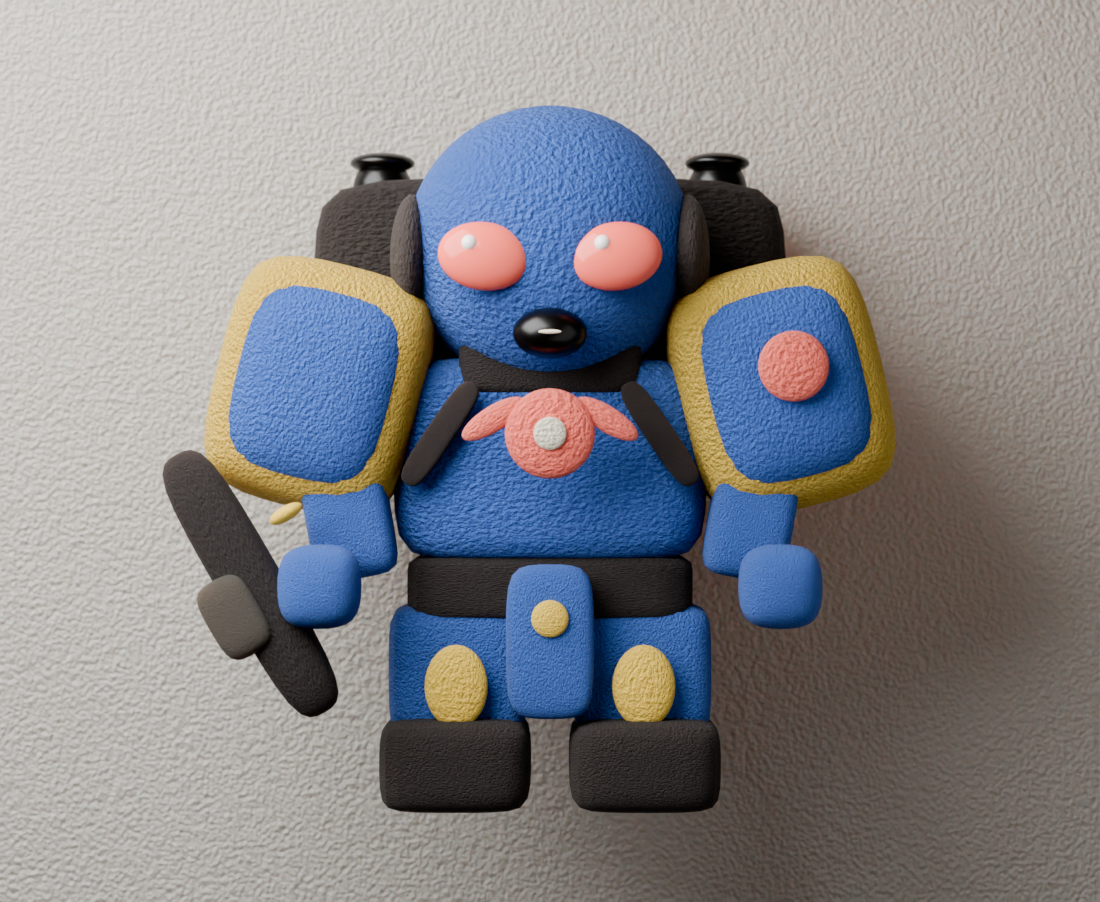
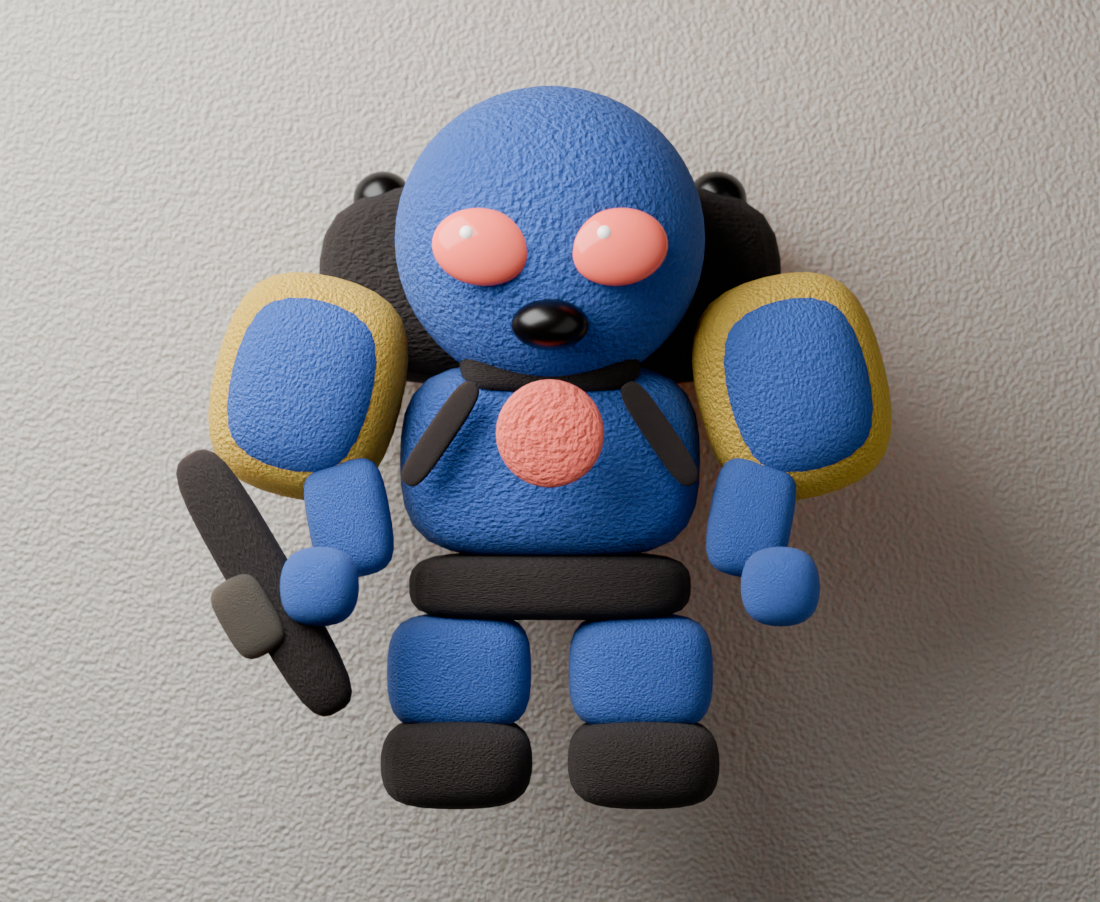
펠트 마린 간소화: 부속 열둘을 걷고 비례로 채웠다 (유호 08-26 「주렁주렁하다 · 더 귀엽게」)
■ 무엇을 뺐나 — 판정 축은 「같은 말을 두 번 하는가」였다
 · 코랄 원판이 어깨와 가슴 둘 → 가슴 하나로(정면 컷의 중심은 가슴이다)
 · 금이 어깨·무릎·태세트·총 네 자리 → 어깨 테 하나로. 금이 여러 자리에 흩어지면
   그것은 «강조»가 아니라 «무늬»가 된다.
 · 가슴 문장의 흰 심(단추로 읽힘)·좌우 날개(콧수염으로 읽힘) → 원판 하나
 · 헬멧 옆판 → 정면에서 또 «귀»가 됐다. 각보다 «귀 아님»이 중요하다.
 · 배기구 끝 링 · 주둥이 그릴 땀 · 총의 금띠와 실땀 → 이 크기에서는 «점»으로만 보인다.
 · 허리 앞 장식판(태세트) → 금점을 걷고 나니 다리 사이의 파란 판이 «세 번째 다리»가 됐다.
   원작의 특징이어도 실루엣을 해치면 버린다.

■ 뺀 자리는 비례가 채운다
 장식이 줄면 실루엣이 전부가 되므로 간소화와 비례 손질은 한 벌로 간다.
 머리 0.452→0.492 · 갑옷 판 크리스 전반 하향(각을 죽인다) · 다리는 짧고 통통하게 ·
 부츠는 키우고 · 어깨는 바깥으로(머리를 키우니 어깨판이 «귀마개»처럼 붙었다) ·
 배기구는 가방 위로 살짝만 내민다(얼굴 옆 높은 자리의 수직물은 다시 귀가 된다).

■ 편집 사고 하나 — 기록으로 남긴다
 긴 주석을 앵커로 블록을 지우다 슬라이스가 뒤집혀 가방·태세트 블록이 통째로 복제됐고,
 렌더에 유령 부품이 남았다(무릎·어깨마크가 지웠는데도 나왔다). 커밋본에서 되살린 뒤
 줄 번호 기반으로 다시 했다. 34판·총 블록이 함께 지워진 것도 같은 원인이었다.

Session-Id: local_1fb103b8-5249-4cb2-94c5-dc81b005b123

diff --git a/tools/마린굽기.py b/tools/마린굽기.py
@@ -153,12 +153,12 @@ def _시안(bpy, math, random, g):
     #     한 칸을 옮기면 이웃 칸의 수도 여기서 같이 보인다 — 그게 «안 깨지는» 유일한 자리다.
     #   각 칸 = (중심z, 반높, ±x, 반폭, y, 깊이반). 화면 세로 3.176 · 캐릭터 0.00~2.28.
     골격 = {
-        '부츠': (0.145, 0.150, 0.308, 0.246, -0.07, 0.292),
-        '다리': (0.440, 0.220, 0.302, 0.228,  0.01, 0.205),   # 부츠와 0.05 겹침
+        '부츠': (0.140, 0.152, 0.306, 0.262, -0.07, 0.300),
+        '다리': (0.430, 0.195, 0.300, 0.242,  0.01, 0.215),   # 부츠와 0.05 겹침
         '허리': (0.710, 0.110, 0.000, 0.470,  0.12, 0.315),   # 다리와 0.06 겹침
         '흉갑': (1.130, 0.345, 0.000, 0.520,  0.12, 0.350),   # 허리와 0.03 겹침 · 위끝 1.475
-        '어깨': (1.372, 0.406, 0.752, 0.338, -0.02, 0.344),   # 금테 — 위끝 1.778 · 아래끝 0.966
-        '어깨속': (1.372, 0.360, 0.752, 0.297, -0.075, 0.334), # 갑옷판 — 테보다 작고 «앞»에 얹힌다
+        '어깨': (1.372, 0.406, 0.796, 0.338, -0.02, 0.344),   # 금테 — 위끝 1.778 · 아래끝 0.966
+        '어깨속': (1.372, 0.360, 0.796, 0.297, -0.075, 0.334), # 갑옷판 — 테보다 작고 «앞»에 얹힌다
         '팔':   (0.945, 0.200, 0.652, 0.135, -0.17, 0.145),   # 🔑 어깨판보다 확실히 가늘고 **아래**로 —
         '주먹': (0.735, 0.142, 0.722, 0.140, -0.46, 0.148),   # 총을 쥐려면 손이 총 «앞»에 와야 한다   #   같은 폭·같은 높이면 한 가로 덩어리가 된다(7·8판)
         '목':   (1.462, 0.125, 0.000, 0.298,  0.00, 0.238),
@@ -167,16 +167,16 @@ def _시안(bpy, math, random, g):
     def 마린():
         받침 = 받침천판()
 
-        def 조각(칸, 라벨, 색이름, 털길이, 털수, 기울=0.0, 크리스=0.42, 부호=0):
+        def 조각(칸, 라벨, 색이름, 털길이, 털수, 기울=0.0, 크리스=0.30, 부호=0):
             z, hz, x, hx, y, hy = 골격[칸]
             퍼(판((hx, hy, hz), (부호 * x, y, z), 기울=부호 * 기울 if 부호 else 기울, 크리스=크리스),
               라벨, 색이름, 털길이, 털수)
 
         for 부호 in (-1, 1):
-            조각('부츠', '부츠' + str(부호), 관절색, 0.015, 3400, 크리스=0.40, 부호=부호)
+            조각('부츠', '부츠' + str(부호), 관절색, 0.015, 3400, 크리스=0.26, 부호=부호)
             조각('다리', '다리' + str(부호), 갑옷색, 0.015, 3400, 부호=부호)
-        조각('허리', '허리', 관절색, 0.013, 4600, 크리스=0.46)
-        조각('흉갑', '흉갑', 갑옷색, 0.014, 19000, 크리스=0.40)
+        조각('허리', '허리', 관절색, 0.013, 4600, 크리스=0.34)
+        조각('흉갑', '흉갑', 갑옷색, 0.014, 19000, 크리스=0.28)
 
         # ── 어깨판(폴드론) — 🔑 이 캐릭터의 서명. **테 두른 판 두 겹**이다 ──────────
         #   버린 다섯 판이 가르쳐 준 것 셋:
@@ -186,8 +186,8 @@ def _시안(bpy, math, random, g):
         #       면이 아니라 **가장자리를 두른 테**다. ⇒ 어두운 테 판 위에 갑옷 판을 얹어 두 겹으로
         #       오린다 — 공방 문법으로도 맞다(아플리케는 겹쳐 오리는 것이다).
         for 부호 in (-1, 1):
-            조각('어깨', '어깨테' + str(부호), 테색, 0.010, 7800, 기울=-14, 크리스=0.34, 부호=부호)
-            조각('어깨속', '어깨' + str(부호), 갑옷색, 0.013, 10500, 기울=-14, 크리스=0.30, 부호=부호)
+            조각('어깨', '어깨테' + str(부호), 테색, 0.010, 7800, 기울=-14, 크리스=0.22, 부호=부호)
+            조각('어깨속', '어깨' + str(부호), 갑옷색, 0.013, 10500, 기울=-14, 크리스=0.20, 부호=부호)
 
         # (어깨판 아래 테의 시침은 뺐다 — 13판에서 금테가 서자 실땀은 판 «안에 뜬 흰 점»이 됐다.
         #  경계를 내는 일을 테가 이미 하고 있으면 실은 남는 것이 아니라 군더더기다.)
@@ -195,18 +195,21 @@ def _시안(bpy, math, random, g):
         # ── 팔 — 어깨판 «밑»에서 나와 배 앞으로 두 주먹을 모은다 ──────────────────
         for 부호 in (-1, 1):
             조각('팔', '팔' + str(부호), 갑옷색, 0.015, 3400, 기울=10, 부호=부호)
-            조각('주먹', '주먹' + str(부호), 갑옷색, 0.013, 3200, 크리스=0.24, 부호=부호)
+            조각('주먹', '주먹' + str(부호), 갑옷색, 0.013, 3200, 크리스=0.16, 부호=부호)
 
         # ── 목 가리개 — 헬멧이 «얹혀» 보이려면 이 어두운 그늘이 있어야 한다 ────────
-        조각('목', '목', 관절색, 0.012, 3000, 크리스=0.46)
+        조각('목', '목', 관절색, 0.012, 3000, 크리스=0.34)
 
         # (고젯 금테는 뺐다 — 16판 실측: 얼굴 «바로 아래»의 가로 금줄은 무엇이든 «웃는 입»이 된다.
         #  검은 주둥이와 합쳐져 수염 난 입이 됐다. 목의 어두운 그늘만으로 고젯은 충분히 읽힌다.)
 
         # ── 헬멧 — 몸통보다 크다. 아기 비례의 전부가 여기 있다 ────────────────────
         #   여기만 «구»다 — 헬멧은 갑옷 중 유일하게 둥근 조각이고, 그 둥금이 귀여움의 몫이다.
-        헬중심, 헬반 = (0, -0.04, 1.830), 0.452
-        헬변형 = (1.05, 0.97, 1.03)
+        #   유호 지시 08-26 「더 귀여운 느낌」 — 장식을 걷어낸 뒤 남는 손잡이는 둘뿐이다:
+        #   **머리 비율**과 **곡률**. 머리를 키우고(0.452→0.492) 갑옷 판의 크리스를 낮춰 각을
+        #   죽인다. 장식이 줄면 실루엣이 전부가 되므로, 간소화와 비례 손질은 한 벌로 간다.
+        헬중심, 헬반 = (0, -0.04, 1.858), 0.492
+        헬변형 = (1.04, 0.97, 1.02)
         퍼(구(헬반, 헬중심, 변형=헬변형), '헬멧', 갑옷색, 0.013, 18000)
 
         def 헬앞(x, z, 띄움=0.040):
@@ -218,28 +221,24 @@ def _시안(bpy, math, random, g):
         # ── 렌즈 한 쌍 — 몽글이 눈구슬 자리 그대로. 바깥이 올라간 «\/» 가 그 인상이다 ──
         렌즈자리 = []
         for 부호 in (-1, 1):
-            cx, cz = 부호 * 0.208, 1.772
+            cx, cz = 부호 * 0.214, 1.798
             y = 헬앞(cx, cz, 띄움=0.010)
             기울 = 부호 * -8
-            구(0.146, (cx, y, cz), 변형=(1.00, 0.44, 0.74), 회전=(0, 기울, 0), 조각=36
+            구(0.156, (cx, y, cz), 변형=(1.00, 0.44, 0.78), 회전=(0, 기울, 0), 조각=36
               ).data.materials.append(렌즈재)
-            구(0.146, (cx, y + 0.028, cz), 변형=(0.70, 0.30, 0.54), 회전=(0, 기울, 0), 조각=32
+            구(0.156, (cx, y + 0.028, cz), 변형=(0.70, 0.30, 0.54), 회전=(0, 기울, 0), 조각=32
               ).data.materials.append(렌즈속재)
             렌즈자리.append((cx, y, cz))
 
-        # ── 헬멧 옆판 — 원작 헬멧의 «귀» 자리. 둥근 헬멧에 «만든 물건»의 각을 준다 ───
-        for 부호 in (-1, 1):
-            구(1.0, (부호 * 0.452, -0.02, 1.792), 변형=(0.075, 0.300, 0.215), 조각=28
-              ).data.materials.append(직물결(매끈재질('헬옆' + str(부호), 색[관절색], 거칠기=0.90),
-                                          지름=0.30, 세기=0.55))
+        # (헬멧 옆판도 뺐다 — 정면에서 헬멧 옆의 어두운 조각은 무엇이든 «귀»가 된다.
+        #  둥근 헬멧에 «만든 물건»의 각을 주려던 것인데, 그 각보다 «귀 아님»이 더 중요하다.)
 
         # (콧등 리지는 뺐다 — 3판 실측: 두 렌즈 사이의 세로 마루가 그대로 «미간 주름»으로 읽혀
         #  얼굴이 찡그린 것이 됐다. 원작의 축을 살리려다 표정을 잃는다면 축을 버린다.)
 
         # ── 호흡기 주둥이 — 작게 · 낮게 = 코. 크고 높으면 «이빨 드러낸 입»이 된다(1판) ──
-        구(0.118, (0, 헬앞(0, 1.532, 띄움=0.038), 1.532), 변형=(1.00, 0.78, 0.68), 조각=32
+        구(0.122, (0, 헬앞(0, 1.556, 띄움=0.038), 1.556), 변형=(1.00, 0.78, 0.66), 조각=32
           ).data.materials.append(쇠재)
-        땀하나(0, 헬앞(0, 1.532, 띄움=0.132), 1.532, 0.036, 0.007, 실땀재, 회전y=0)   # 한 줄만 — 둘이면 이빨이다
 
         # ── 등에 «멘 가방» — 유호 지시 08-26 「뒤에 가방을 멘 상태라면 더 재밌겠다」 ──────
         #   🔑 정면 한 장에서 «가방을 멨다»를 말하는 것은 가방 자체가 아니라 **앞으로 넘어온 끈**이다.
@@ -251,33 +250,27 @@ def _시안(bpy, math, random, g):
         #     어깨판 바깥선(1.06)과 헬멧 위(2.28) 사이로 **삐져나오게** 넓히고 올린다.
         #   🔑 가방은 **관절색(어두운 것)** 이다 — 갑옷색으로 두면 어깨 뒤의 «파란 덩어리»라
         #     몸의 일부로 읽힌다(15판). 끈과 같은 색이라야 「끈 → 가방」이 한 물건으로 이어진다.
-        퍼(판((0.822, 0.240, 0.368), (0, 0.50, 1.742), 크리스=0.40), '가방', 관절색, 0.013, 11500)
+        퍼(판((0.822, 0.240, 0.368), (0, 0.50, 1.742), 크리스=0.30), '가방', 관절색, 0.013, 11500)
         for 부호 in (-1, 1):                            # 배기구 — 가방 «위»의 짧고 굵은 관(헬멧 꼭대기보다 낮게)
-            구(0.104, (부호 * 0.585, 0.48, 2.075), 변형=(1.00, 1.00, 1.05),
+            구(0.104, (부호 * 0.585, 0.48, 2.042), 변형=(1.00, 1.00, 0.92),
               회전=(0, 부호 * 7, 0), 조각=28).data.materials.append(쇠재)
-            구(0.114, (부호 * 0.585, 0.48, 2.165), 변형=(1.00, 1.00, 0.32), 조각=24
-              ).data.materials.append(쇠재)              # 관이 «끝난» 것이 보여야 관이다
         for 부호 in (-1, 1):                            # 어깨끈 — 이 두 줄이 «멘 상태»를 만든다
             #   13판은 기울 9°라 «가슴에 세운 검은 막대»였다. 끈은 어깨에서 배로 **대각선**으로 간다.
             #   14판은 x 0.248 이라 두 줄이 가슴 문장을 감싸 «집게»가 됐다. 문장을 비켜 바깥으로 민다.
             퍼(판((0.046, 0.026, 0.198), (부호 * 0.352, -0.268, 1.215), 기울=부호 * -34, 크리스=0.30),
               '끈' + str(부호), 관절색, 0.010, 1100)
 
-        # ── 허리 앞 장식판(태세트) — 원작 해병의 큰 특징. 다리 사이로 늘어진다 ────────
-        퍼(판((0.142, 0.055, 0.248), (0, -0.262, 0.548), 크리스=0.36), '태세트', 갑옷색, 0.013, 2200)
-        구(0.060, (0, -0.322, 0.625), 변형=(1.00, 0.30, 1.00), 조각=28).data.materials.append(금테재)
-
-        # ── 무릎 보호대 — 다리 앞의 금테 원판. 작은 것 둘이 «장비»를 말한다 ───────────
-        for 부호 in (-1, 1):
-            구(0.102, (부호 * 0.302, -0.240, 0.402), 변형=(1.00, 0.34, 1.32), 조각=28
-              ).data.materials.append(금테재)
+        # (허리 앞 장식판(태세트)도 뺐다 — 금점을 걷고 나니 다리 사이의 파란 판이
+        #  그대로 «세 번째 다리»로 읽혔다. 원작의 특징이어도 실루엣을 해치면 버린다.
+        #  간소화의 값은 «뺄 것을 세는 것»이 아니라 «남은 것이 또렷해지는 것»에 있다.)
 
 
-        # ── 어깨 챕터 마크 — 원작의 소속 표식 자리에 코랄 원판 하나(오른쪽 어깨만) ──
-        어z, _, 어x, _, 어y, 어hy = 골격['어깨속']
-        구(0.112, (어x + 0.015, 어y - 어hy - 0.019, 어z + 0.055), 변형=(1.00, 0.26, 1.00),
-          회전=(0, -14, 0), 조각=32).data.materials.append(
-              직물결(매끈재질('어깨마크', 색['Coral'], 거칠기=0.94), 지름=0.24, 세기=0.55))
+        # (무릎 금테 둘도 뺐다 — 금이 어깨·무릎·태세트·총 네 자리에 흩어지면 금은 «강조»가
+        #  아니라 «무늬»가 된다. 금은 어깨 테 하나에만 둔다 — 그래야 어깨가 서명으로 남는다.)
+
+        # (어깨 챕터 마크는 뺐다 — 유호 지시 08-26 「장치가 너무 많다 · 주렁주렁」의 첫 자리.
+        #  코랄 원판이 어깨와 가슴 둘에 있으면 **같은 말을 두 번** 하는 것이다. 정면 컷의
+        #  중심은 가슴이고, 브랜드 색은 몸 한가운데 하나 앉는 편이 세다.)
 
         # ── 가슴 마크 — 원작의 문장 자리에 **코랄 원판**. 우리 색이 이 아이의 소속이다 ──
         #   🔴 4·6·7판 실측: 원판 «둘레에» 실땀을 돌리면 그게 곧 «쿠키 테»다 — 여덟도 여섯도
@@ -285,14 +278,9 @@ def _시안(bpy, math, random, g):
         #     **두 겹 원판**(코랄 + 크림 심)으로 간다. 아플리케의 «겹쳐 오린 조각» 문법이고,
         #     실은 어깨판 아래 테 한 줄에만 남긴다(몽글이도 밑단 한 줄뿐이다).
         마크z, 마크y = 1.215, -(0.12 + 0.350) + 0.020
-        구(0.142, (0, 마크y, 마크z), 변형=(1.00, 0.30, 1.00), 조각=36
+        구(0.170, (0, 마크y, 마크z), 변형=(1.00, 0.28, 1.00), 조각=36
           ).data.materials.append(직물결(매끈재질('가슴마크', 색['Coral'], 거칠기=0.94), 지름=0.28, 세기=0.55))
-        구(0.052, (0, 마크y - 0.045, 마크z), 변형=(1.00, 0.26, 1.00), 조각=28
-          ).data.materials.append(직물결(매끈재질('가슴심', 색['Stitch'], 거칠기=0.94), 지름=0.14, 세기=0.55))
-        for 부호 in (-1, 1):      # 좌우로 뻗은 짧은 날개 — 원작 문장의 «펼친» 인상만 가져온다
-            구(0.082, (부호 * 0.178, 마크y + 0.012, 마크z + 0.046), 변형=(1.40, 0.26, 0.50),
-              회전=(0, 부호 * 32, 0), 조각=28).data.materials.append(
-                  직물결(매끈재질('날개' + str(부호), 색['Coral'], 거칠기=0.94), 지름=0.22, 세기=0.55))
+        # (흰 심은 «단추», 좌우 날개는 «콧수염»으로 읽혔다 — 둘 다 뺀다. 문장은 원판 하나면 된다.)
 
         # ── 볼터 — 유호 확정 08-26 「총을 넣자. 가방이 있어서 총의 무거움은 중화된다」 ────
         #   🔑 **총도 펠트로 기운다.** 이 아이가 든 물건만 «남의 세계»에서 오면 세계가 갈린다 —
@@ -316,7 +304,7 @@ def _시안(bpy, math, random, g):
         #     흩어진 검은 조각»이 됐다. 작은 물건일수록 조각을 줄여야 한다 — 총열과 개머리를 총몸
         #     하나로 합치고, 남는 셋을 **서로 다른 어둠**으로 둔다(몸 Ink · 탄창 Deep Wool · 링 금).
         #     같은 검정 셋은 한 뭉치지만, 세 단계의 검정은 «부품»으로 읽힌다.
-        총x, 총z, 총y, 총기울 = -0.945, 0.742, -0.400, -30
+        총x, 총z, 총y, 총기울 = -0.902, 0.744, -0.400, -30
 
         def 총자리(lx, lz):
             a = math.radians(총기울)
@@ -331,12 +319,9 @@ def _시안(bpy, math, random, g):
         #     ⇒ 길쭉한 몸 하나 + 앞에 붙은 탄창 + 등에 얹은 금띠, 셋으로 끝낸다.
         총부((0.098, 0.092, 0.470), 0.000,  0.000, '총몸', 관절색)          # 총열·개머리까지 한 조각
         총부((0.088, 0.066, 0.132), 0.014, -0.108, '탄창', 'Deep Wool', y밀기=-0.058)   # 볼터의 서명
-        gx, gz = 총자리(-0.010, 0.250)
-        구(0.058, (gx, 총y - 0.052, gz), 변형=(1.00, 1.00, 0.42), 회전=(0, 총기울, 0), 조각=24
-          ).data.materials.append(금테재)                                    # 등의 금띠 — 금 한 점이 «장비»를 말한다
-        for lz in (-0.075, 0.075):                                           # 기운 자국 두 땀 — 펠트 총의 말
-            gx, gz = 총자리(0.138, lz)
-            땀하나(gx, 총y - 0.026, gz, 0.036, 0.009, 실땀재, 회전y=총기울)
+        # (총의 금띠와 실땀 두 땀은 뺐다 — 이 크기에서는 «점»으로만 보인다. 총은 이미
+        #  몸(Ink)과 탄창(Deep Wool) 두 어둠으로 갈려 있고, 금은 어깨 테 한 자리에만 둔다.)
+
 
         # ── 34판 — 몸 전체를 34° 돌린다(받침천 제외 · 마스코트 우34/좌34 문법) ─────
         #   가방을 «멘» 것은 정면보다 이 각도에서 훨씬 잘 보인다 — 등이 화면으로 들어온다.
